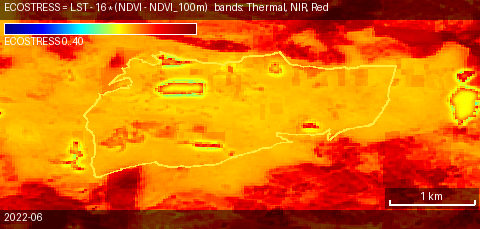
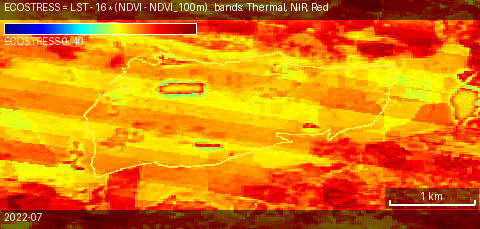
docs: align gallery examples to July 2022 and drop MODIS NDVI from gallery
Re-render the Landsat examples (lst, lst_smw, ecostress) for July 2022 so every
gallery frame is the same month (the previous June frames came from taking the
first available scene in a June-Sept window — Landsat has sparser coverage).
Remove the coarse MODIS NDVI example from the gallery (it remains in the config
table as a supported product).

diff --git a/README.md b/README.md
@@ -67,7 +67,7 @@ senescence:
 
 <p align="center"><img src="docs/images/example_ndvi_timelapse.gif" width="480" alt="Animated NDVI timelapse over the WNE / Grumsin AOI, 2022"></p>
 
-And one representative still frame per product (July 2022; Landsat June 2022):
+And one representative still frame per product (July 2022):
 
 <table>
 <tr>
@@ -87,8 +87,7 @@ And one representative still frame per product (July 2022; Landsat June 2022):
 <td align="center"><b>LST (SMW)</b> Ermida 2020 (Landsat)<br><img src="docs/images/example_lst_smw.png" width="360"></td>
 </tr>
 <tr>
-<td align="center"><b>ECOSTRESS</b> sharpened LST (Landsat)<br><img src="docs/images/example_ecostress.png" width="360"></td>
-<td align="center"><b>NDVI</b> (MODIS, 500 m)<br><img src="docs/images/example_modis_ndvi.png" width="360"></td>
+<td align="center" colspan="2"><b>ECOSTRESS</b> sharpened LST (Landsat)<br><img src="docs/images/example_ecostress.png" width="360"></td>
 </tr>
 </table>
 
